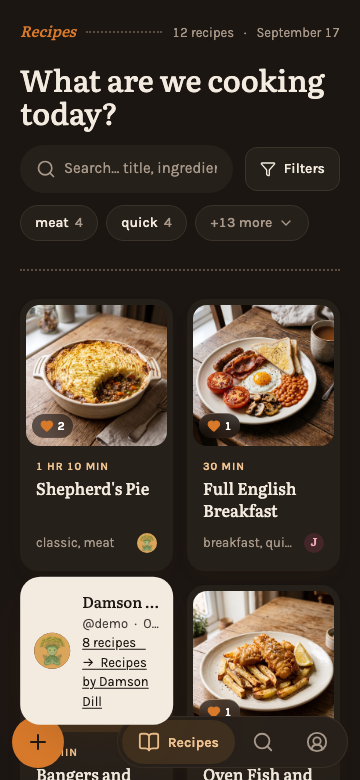
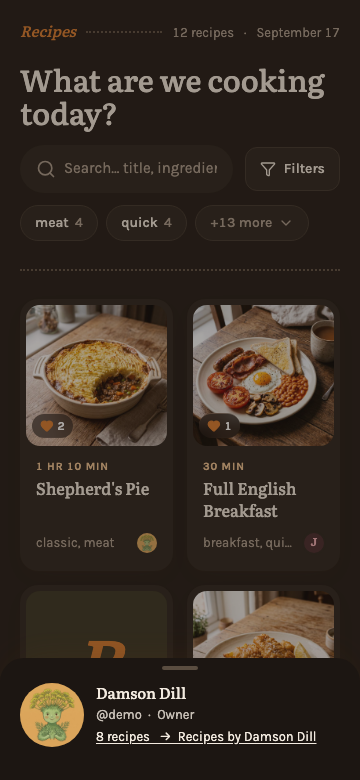
fix(frontend): open person cards in a bottom sheet on phones

diff --git a/frontend/src/lib/components/recipe/AuthorInitials.svelte b/frontend/src/lib/components/recipe/AuthorInitials.svelte
@@ -1,8 +1,10 @@
 <script lang="ts">
-	import { Popover } from 'bits-ui';
+	import { Dialog, Popover } from 'bits-ui';
+	import { MediaQuery } from 'svelte/reactivity';
 	import { m } from '$lib/paraglide/messages';
 	import type { Person } from '$lib/api/recipes';
 	import { authorLabel } from '$lib/recipe/authorship';
+	import BottomSheet from '$lib/components/ui/BottomSheet.svelte';
 	import PersonCard from '$lib/components/ui/PersonCard.svelte';
 	import PersonMark from '$lib/components/ui/PersonMark.svelte';
 
@@ -28,28 +30,67 @@
 	const edited = $derived(!sameAuthor);
 	const label = $derived(authorLabel(createdBy, updatedBy));
 	let open = $state(false);
+	// Below `md` the people open in a bottom sheet instead: under a card in a
+	// two-column grid the panel was 153px wide, cut the name and the role off
+	// and slid under the bottom nav. The sheet is the phone's one shape for
+	// "one person" (see PersonSheet).
+	const phone = new MediaQuery('max-width: 767.98px');
 </script>
 
+<!-- Two cards each carry their label above them; one card needs none. -->
+{#snippet cards(muted: string, compact: boolean)}
+	<div class="space-y-3">
+		{#if edited}
+			<p class={muted}>{m.card_author({ user: createdBy.displayName })}</p>
+		{/if}
+		<PersonCard person={createdBy} {compact} onnavigate={() => (open = false)} />
+		{#if edited}
+			<p class={muted}>{m.card_editor({ user: updatedBy.displayName })}</p>
+			<PersonCard person={updatedBy} {compact} onnavigate={() => (open = false)} />
+		{/if}
+	</div>
+{/snippet}
+
+{#snippet circles()}
+	{#each people as person, index (person.id)}
+		<PersonMark {person} size="xs" class="ring-2 ring-surface {index > 0 ? '-ml-1.5' : ''}" />
+	{/each}
+{/snippet}
+
 <!--
-	A popover rather than a tooltip, because bits-ui's tooltip returns early
-	on `pointerType === "touch"` and closes rather than opens on click - it
-	is hover-only by design, which would leave phones with two unexplained
+	On a wide screen a popover rather than a tooltip, because bits-ui's
+	tooltip returns early on `pointerType === "touch"` and closes rather than
+	opens on click - a touch laptop would be left with two unexplained
 	letters. A popover opens on tap everywhere and, with `openOnHover`,
 	still behaves like a tooltip under a mouse.
 -->
-<Popover.Root bind:open>
-	<Popover.Trigger
-		openOnHover
-		openDelay={300}
+{#if phone.current}
+	<button
+		type="button"
 		aria-label={label}
+		onclick={() => (open = true)}
 		class="flex shrink-0 items-center rounded-full focus-visible:outline-2 focus-visible:outline-offset-2 focus-visible:outline-primary"
 	>
-		{#each people as person, index (person.id)}
-			<PersonMark {person} size="xs" class="ring-2 ring-surface {index > 0 ? '-ml-1.5' : ''}" />
-		{/each}
-	</Popover.Trigger>
-	<Popover.Portal>
-		<!--
+		{@render circles()}
+	</button>
+	<BottomSheet bind:open closeLabel={m.common_close()}>
+		<div class="min-h-0 flex-1 overflow-y-auto px-5 pb-8">
+			<Dialog.Title class="sr-only">{label}</Dialog.Title>
+			{@render cards('text-caption text-text-muted', false)}
+		</div>
+	</BottomSheet>
+{:else}
+	<Popover.Root bind:open>
+		<Popover.Trigger
+			openOnHover
+			openDelay={300}
+			aria-label={label}
+			class="flex shrink-0 items-center rounded-full focus-visible:outline-2 focus-visible:outline-offset-2 focus-visible:outline-primary"
+		>
+			{@render circles()}
+		</Popover.Trigger>
+		<Popover.Portal>
+			<!--
 			The card is the anchor, not the trigger: the panel then hangs below
 			the card and spans exactly its width (`--bits-floating-anchor-width`
 			is the anchor's measured width), which reads as belonging to that
@@ -72,25 +113,16 @@
 			the very bottom of the viewport and Floating UI flips the panel
 			back above it.
 		-->
-		<Popover.Content
-			customAnchor={anchor}
-			side="bottom"
-			sideOffset={6}
-			align="start"
-			collisionPadding={12}
-			class="z-50 w-[var(--bits-floating-anchor-width)] rounded-2xl bg-inverse p-3.5 text-caption text-inverse-foreground shadow-dialog"
-		>
-			<!-- Two cards each carry their label above them; one card needs none. -->
-			<div class="space-y-3">
-				{#if edited}
-					<p class="text-inverse-muted">{m.card_author({ user: createdBy.displayName })}</p>
-				{/if}
-				<PersonCard person={createdBy} compact onnavigate={() => (open = false)} />
-				{#if edited}
-					<p class="text-inverse-muted">{m.card_editor({ user: updatedBy.displayName })}</p>
-					<PersonCard person={updatedBy} compact onnavigate={() => (open = false)} />
-				{/if}
-			</div>
-		</Popover.Content>
-	</Popover.Portal>
-</Popover.Root>
+			<Popover.Content
+				customAnchor={anchor}
+				side="bottom"
+				sideOffset={6}
+				align="start"
+				collisionPadding={12}
+				class="z-50 w-[var(--bits-floating-anchor-width)] rounded-2xl bg-inverse p-3.5 text-caption text-inverse-foreground shadow-dialog"
+			>
+				{@render cards('text-inverse-muted', true)}
+			</Popover.Content>
+		</Popover.Portal>
+	</Popover.Root>
+{/if}

diff --git a/frontend/src/lib/components/recipe/TastyPeople.svelte b/frontend/src/lib/components/recipe/TastyPeople.svelte
@@ -1,7 +1,9 @@
 <script lang="ts">
-	import { Popover } from 'bits-ui';
+	import { Dialog, Popover } from 'bits-ui';
+	import { MediaQuery } from 'svelte/reactivity';
 	import { m } from '$lib/paraglide/messages';
 	import type { Person } from '$lib/api/recipes';
+	import BottomSheet from '$lib/components/ui/BottomSheet.svelte';
 	import PersonCard from '$lib/components/ui/PersonCard.svelte';
 	import PersonMark from '$lib/components/ui/PersonMark.svelte';
 
@@ -15,14 +17,47 @@
 	const more = $derived(people.length - circles.length);
 	const names = $derived(people.map((person) => person.displayName).join(', '));
 	let open = $state(false);
+	// A bottom sheet below `md`, for the reason AuthorInitials gives.
+	const phone = new MediaQuery('max-width: 767.98px');
 </script>
 
+{#snippet faces()}
+	{#each circles as person, index (person.id)}
+		<PersonMark {person} size="sm" class="ring-2 ring-background {index > 0 ? '-ml-2' : ''}" />
+	{/each}
+	{#if more > 0}
+		<span aria-hidden="true" class="ml-1.5 text-caption text-text-muted">+{more}</span>
+	{/if}
+{/snippet}
+
+{#snippet cards(compact: boolean)}
+	<ul class="mt-2 space-y-3">
+		{#each people as person (person.id)}
+			<li><PersonCard {person} {compact} onnavigate={() => (open = false)} /></li>
+		{/each}
+	</ul>
+{/snippet}
+
 <!--
-	A popover rather than a tooltip, for the reason AuthorInitials gives:
-	bits-ui's tooltip ignores touch, and on a phone the names would then be
-	out of reach.
+	On a wide screen a popover rather than a tooltip, for the reason
+	AuthorInitials gives: bits-ui's tooltip ignores touch.
 -->
-{#if people.length > 0}
+{#if people.length > 0 && phone.current}
+	<button
+		type="button"
+		aria-label={`${m.recipe_tasty_by()}: ${names}`}
+		onclick={() => (open = true)}
+		class="flex shrink-0 items-center rounded-full focus-visible:outline-2 focus-visible:outline-offset-2 focus-visible:outline-primary"
+	>
+		{@render faces()}
+	</button>
+	<BottomSheet bind:open closeLabel={m.common_close()}>
+		<div class="min-h-0 flex-1 overflow-y-auto px-5 pb-8">
+			<Dialog.Title class="text-caption text-text-muted">{m.recipe_tasty_by()}</Dialog.Title>
+			{@render cards(false)}
+		</div>
+	</BottomSheet>
+{:else if people.length > 0}
 	<Popover.Root bind:open>
 		<Popover.Trigger
 			openOnHover
@@ -30,12 +65,7 @@
 			aria-label={`${m.recipe_tasty_by()}: ${names}`}
 			class="flex shrink-0 items-center rounded-full focus-visible:outline-2 focus-visible:outline-offset-2 focus-visible:outline-primary"
 		>
-			{#each circles as person, index (person.id)}
-				<PersonMark {person} size="sm" class="ring-2 ring-background {index > 0 ? '-ml-2' : ''}" />
-			{/each}
-			{#if more > 0}
-				<span aria-hidden="true" class="ml-1.5 text-caption text-text-muted">+{more}</span>
-			{/if}
+			{@render faces()}
 		</Popover.Trigger>
 		<Popover.Portal>
 			<!-- `inverse`, like the author panel: the palette's role for
@@ -48,11 +78,7 @@
 				class="z-50 max-w-72 rounded-2xl bg-inverse p-3.5 text-caption text-inverse-foreground shadow-dialog"
 			>
 				<p class="text-inverse-muted">{m.recipe_tasty_by()}</p>
-				<ul class="mt-2 space-y-3">
-					{#each people as person (person.id)}
-						<li><PersonCard {person} compact onnavigate={() => (open = false)} /></li>
-					{/each}
-				</ul>
+				{@render cards(true)}
 			</Popover.Content>
 		</Popover.Portal>
 	</Popover.Root>
